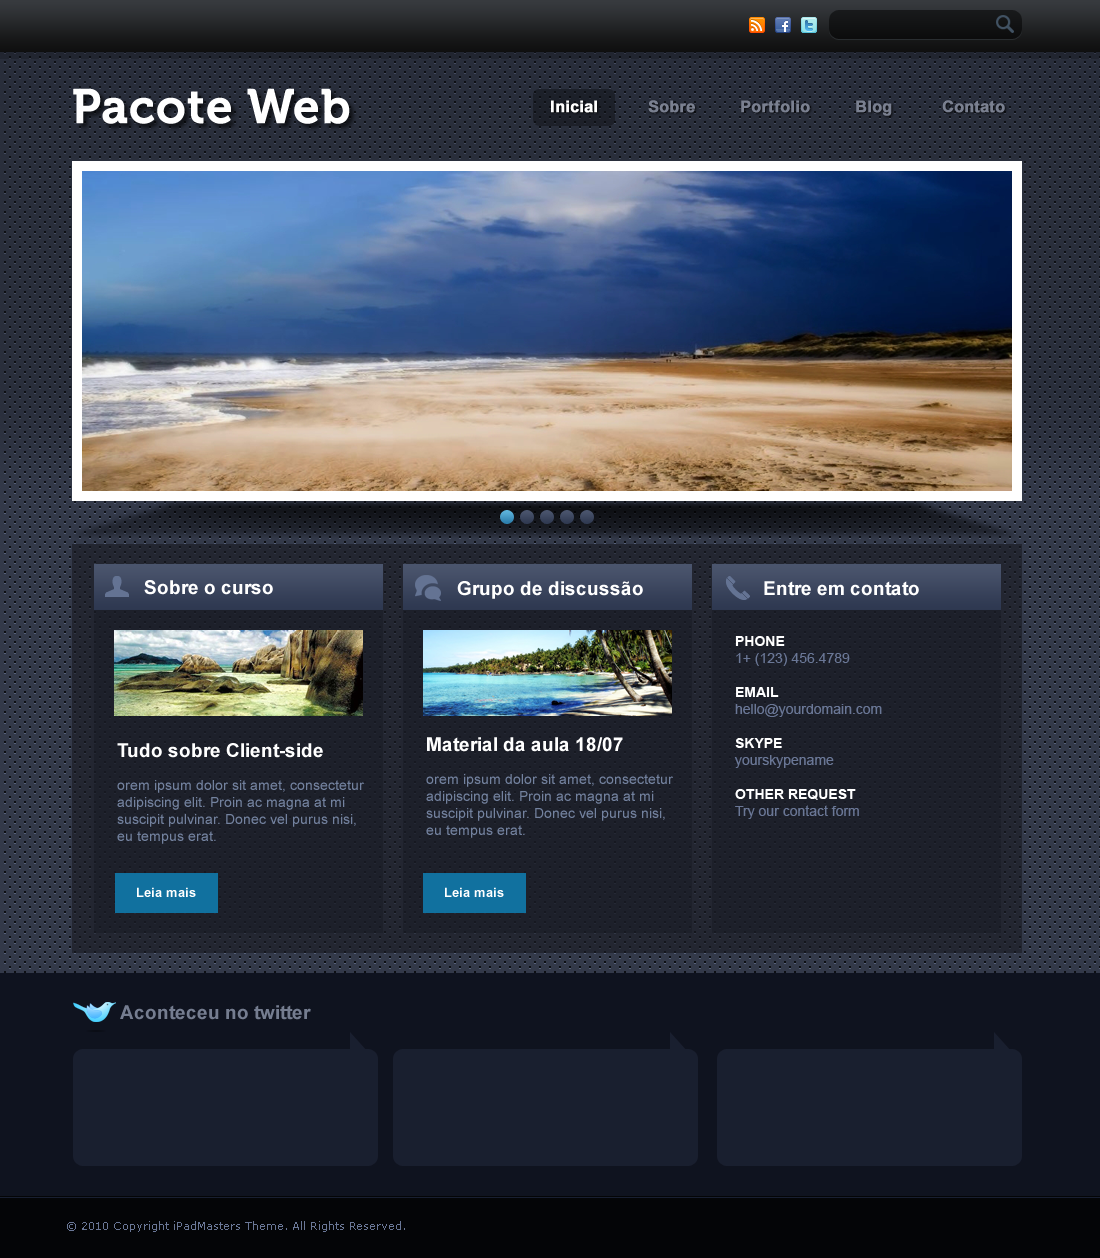
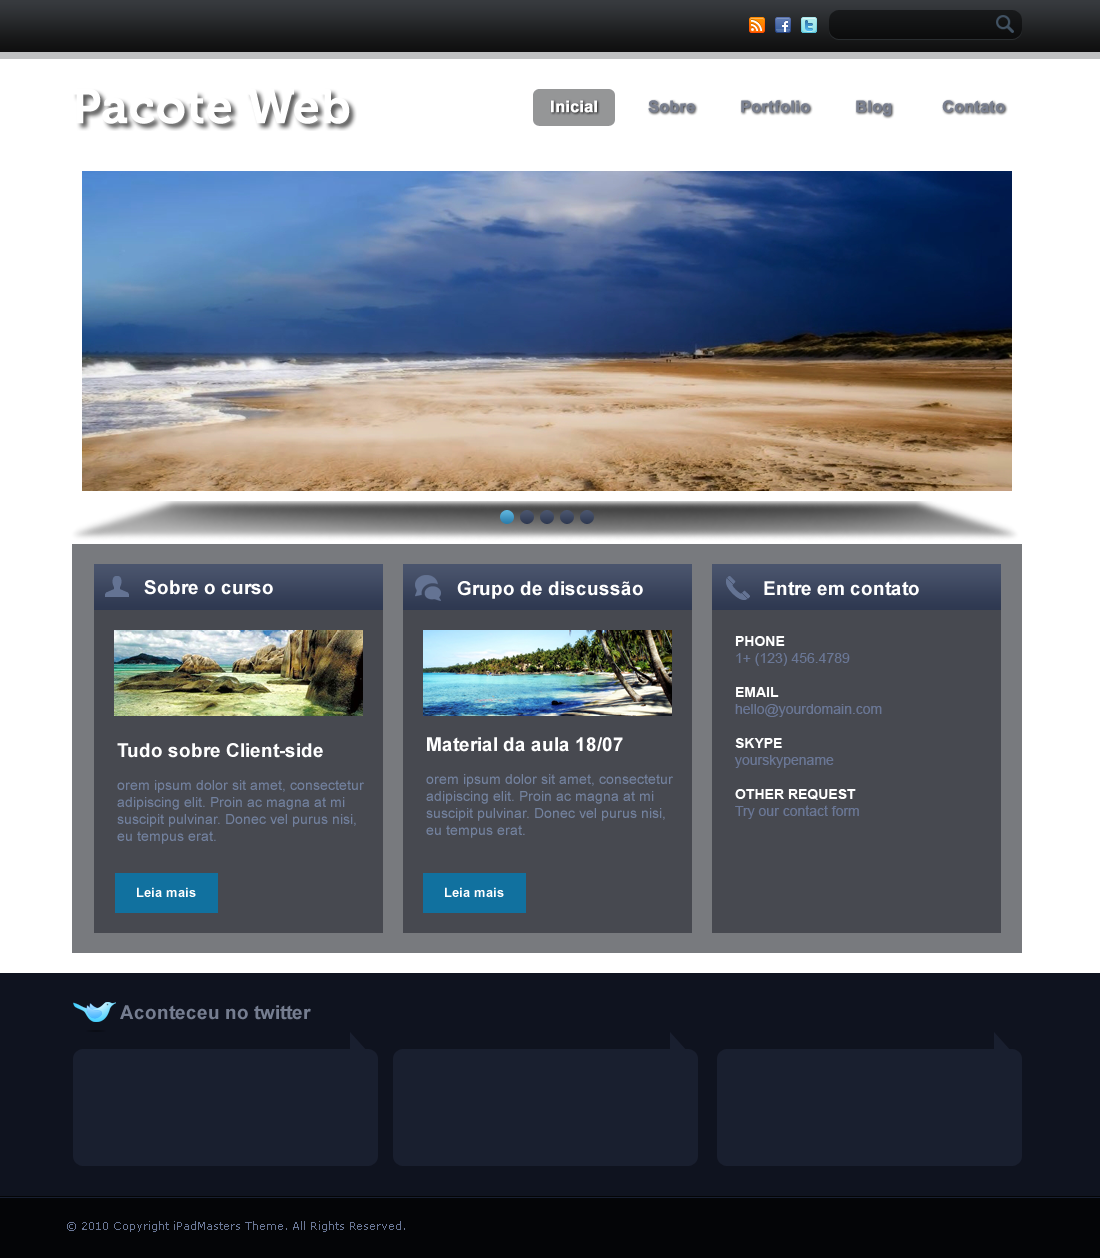
Resolução da segunda revisão

diff --git a/css/revisao/css/style.css b/css/revisao/css/style.css
@@ -14,3 +14,263 @@
 
 /* Começar aqui */
 
+body {
+  font-family: Arial, sans-serif;
+  font-size: 13px;
+  background: url("../images/bg-geral.png");
+  color: white;
+}
+
+a {
+  color: white;
+  text-decoration: none;
+}
+
+#barra {
+  background: url("../images/bg-barra-topo.png") repeat-x;
+  overflow: hidden;
+  height: 60px;
+}
+
+#barra-interna {
+  width: 950px;
+  margin: 0 auto;
+  overflow: hidden;
+}
+
+#redes-sociais {
+  margin-left: 600px;
+  margin-top: 15px;
+  margin-bottom: 20px;
+  overflow: hidden;
+  width: 100px;
+  float: left;
+}
+
+#redes-sociais li {
+  float: left;
+  margin-right: 10px;
+}
+
+#redes-sociais a {
+  display: block;
+  text-indent: -9999px;
+  overflow: hidden;
+  width: 16px;
+  height: 16px;
+}
+
+#redes-sociais .rss {
+  background: url("../images/bt-rss.png") no-repeat;
+}
+
+#redes-sociais .face {
+  background: url("../images/bt-facebook.png") no-repeat;
+}
+
+#redes-sociais .twitter {
+  background: url("../images/bt-twitter.png") no-repeat;
+}
+
+#buscar {
+  width: 193px;
+  margin-top: 10px;
+}
+
+#buscar input {
+  background: url("../images/bg-busca.png") no-repeat;
+  border: none;
+  color: white;
+  width: 160px;
+  padding: 7px 23px 10px 10px;
+}
+
+#buscar label {
+  display: none;
+  float: left;
+}
+
+#container {
+  margin: 0 auto;
+  width: 950px;
+}
+
+#cabecalho {
+  overflow: hidden;
+  padding-top: 40px;
+  padding-bottom: 40px;
+}
+
+#logotipo {
+  width: 300px;
+  float: left;
+}
+
+#logotipo a {
+  font-family: 'Tienne', serif;
+  font-size: 35px;
+
+  text-shadow: 1px 1px 2px #000000;
+  filter: dropshadow(color=#000000, offx=1, offy=1);
+}
+
+#nav {
+  width: 500px;
+  float: right;
+  overflow: hidden;
+}
+
+#nav li {
+  float: left;
+}
+
+#nav .atual {
+  background: url("../images/bg-transparente.png");
+  color: white;
+
+  -webkit-border-radius: 10px;
+  -moz-border-radius: 10px;
+  border-radius: 10px;
+}
+
+#nav a {
+  padding: 10px 20px;
+  display: block;
+  color: #797F90;
+
+  font-size: 16px;
+  font-weight: bold;
+
+  text-shadow: 1px 1px 2px #000000;
+  filter: dropshadow(color=#000000, offx=1, offy=1);
+}
+
+#banner {
+  background: url("../images/bg-banner.png") no-repeat;
+  height: 379px;
+  margin-bottom: 30px;
+}
+
+#chamadas {
+  background: url("../images/bg-transparente.png");
+  overflow: hidden;
+  padding: 20px;
+}
+
+#chamadas .chamada {
+  background: url("../images/bg-transparente.png");
+  width: 250px;
+  padding: 18px;
+  float: left;
+  margin-right: 15px;
+}
+
+#chamadas .titulo {
+  background: url("../images/bg-boxes.png") repeat-x;
+  padding: 14px;
+  font-size: 17px;
+  margin-left: -18px;
+  margin-top: -18px;
+  margin-bottom: 20px;
+  width: 258px;
+}
+
+#chamadas .titulo a {
+  background: url("../images/icone-pessoa.png") no-repeat;
+  display: block;
+  padding: 2px 0;
+  padding-left: 30px;
+}
+
+#chamadas .chamada h3 {
+  font-size: 16px;
+  margin: 15px 0;
+}
+
+#chamadas .chamada p {
+  line-height: 150%;
+  margin-bottom: 15px;
+  color: #72809F;
+}
+
+#chamadas .chamada .leia-mais {
+  padding: 10px 12px;
+  background: #11719F;
+  display: block;
+  width: 58px;
+}
+
+#chamadas .ultima {
+  margin-right: 0;
+  height: 308px;
+}
+
+#chamadas .ultima em {
+  color: white;
+  font-weight: bold;
+  font-style: normal;
+  display: block;
+  text-transform: uppercase;
+  margin-bottom: 5px;
+}
+
+#chamadas .ultima a,
+#chamadas .ultima address {
+  color: #72809F;
+}
+
+#chamadas .ultima .titulo a {
+  color: white;
+}
+
+#chamadas .ultima li {
+  margin-bottom: 15px;
+}
+
+#rodape {
+  margin-top: 20px;
+  background: #0F131F;
+  overflow: hidden;
+  padding-top: 20px;
+}
+
+#rodape-interno {
+  width: 950px;
+  margin: 0 auto;
+  overflow: hidden;
+}
+
+#rodape h2 {
+  color: #747D90;
+  font-size: 17px;
+  margin-bottom: 15px;
+  background: url("../images/icone-twitter.png") no-repeat;
+  padding: 3px 0;
+  padding-left: 50px;
+}
+
+#tweets li {
+  float: left;
+  margin-right: 5px;
+  width: 270px;
+  background: url("../images/bg-twitter.png") no-repeat;
+  padding: 40px 20px 0 20px;
+  height: 134px;
+}
+
+#tweets .ultimo {
+  margin-right: 0;
+}
+
+#copyright {
+  background: black;
+  border-top: 1px solid #181F31;
+  padding: 20px 0 ;
+}
+
+#copyright p {
+  color: white;
+  width: 950px;
+  margin: 0 auto;
+}
+

diff --git a/css/revisao/index.html b/css/revisao/index.html
@@ -2,11 +2,119 @@
 <html xmlns="http://www.w3.org/1999/xhtml" xml:lang="en">
 <head>
 <meta http-equiv="Content-Type" content="text/html;charset=UTF-8" />
-<title>Revisão do curso Pacote Web 2011.2</title>
+<title>Segunda revisão</title>
+<link href='http://fonts.googleapis.com/css?family=Tienne&v2' rel='stylesheet' type='text/css' />
 <link media="all" rel="stylesheet" href="css/reset.css" type="text/css" />
 <link media="all" rel="stylesheet" href="css/style.css" type="text/css" />
 </head>
 <body>
 
+<div id="barra">
+  <div id="barra-interna">
+    <ul id="redes-sociais">
+      <li><a href="#" class="rss">RSS</a></li>
+      <li><a href="#" class="face">Facebook</a></li>
+      <li><a href="#" class="twitter">Twitter</a></li>
+    </ul>
+
+    <form action="#" method="GET" id="buscar">
+      <fieldset>
+        <label for="campo-busca">Buscar</label>
+        <input type="text" name="busca" id="campo-busca" />
+      </fieldset>
+    </form>
+  </div>
+</div><!-- end #barra -->
+
+<div id="container">
+  <div id="cabecalho">
+    <h1 id="logotipo">
+      <a href="#">Pacote Web</a>
+    </h1>
+
+    <ul id="nav">
+      <li><a href="#" class="atual">Inicial</a></li>
+      <li><a href="#">Sobre</a></li>
+      <li><a href="#">Portfólio</a></li>
+      <li><a href="#">Blog</a></li>
+      <li><a href="#">Contato</a></li>
+    </ul>
+  </div><!-- end #cabecalho -->
+
+  <div id="banner">
+  </div>
+
+  <div id="chamadas">
+    <div class="chamada">
+      <h2 class="titulo"><a href= "#">Sobre o curso</a></h2>
+      <img src="images/imagem1.jpg" alt="praia" />
+      <h3>Tudo sobre client-side</h3>
+      <p>
+        Lorem ipsum dolor sit amet, consectetur adipiscing elit. Proin ac magna at mi suscipit pulvinar. Donec vel purus nisi, eu tempus erat.
+      </p>
+      <a href="#" class="leia-mais">Leia mais</a>
+    </div><!-- end .chamada -->
+
+    <div class="chamada">
+      <h2 class="titulo"><a href="#">Grupo de discussão</a></h2>
+
+      <img src="images/imagem2.jpg" alt="praia" />
+
+      <h3>Materinal da aula 18/07</h3>
+      <p>
+        Lorem ipsum dolor sit amet, consectetur adipiscing elit. Proin ac magna at mi suscipit pulvinar. Donec vel purus nisi, eu tempus erat.
+      </p>
+      <a href="#" class="leia-mais">Leia mais</a>
+    </div><!-- end .chamada -->
+
+    <div class="chamada ultima">
+      <h2 class="titulo"><a href="#">Entre em contato</a></h2>
+
+      <ul>
+        <li>
+          <em>Telefone</em>
+          <address>+55 81 9194 5000</address>
+        </li>
+        <li>
+          <em>E-mail</em>
+          <a href="mailto:curso-web-citi-2011-2@googlegroups.com">curso-web-citi-2011-2@googlegroups.com</a>
+        </li>
+        <li>
+          <em>Skype</em>
+          <a href="skype:guiocavalcanti">guiocavalcanti</a>
+        </li>
+      </ul>
+    </div>
+  </div><!-- end #chamadas -->
+</div><!-- end #container -->
+
+<div id="rodape">
+  <div id="rodape-interno">
+    <h2>
+      Aconteceu no Twitter:
+    </h2>
+
+    <ol id="tweets">
+      <li>
+        @guiocavalcanti Knowledge acquisition will no longer be confined to large lecture halls and assigned papers. http://is.gd/d7dm4F
+        25 Jun
+      </li>
+
+      <li>
+        @guiocavalcanti hacking with coffescript
+        16 Jun
+      </li>
+
+      <li class="ultimo">
+        @guiocavalcanti DOM is the bottleneck: If the JS engine were infinitely fast, most web apps would run about the same time. Douglas Crockford at #velocity
+        16 Jun
+      </li>
+    </ol>
+
+  </div>
+  <div id="copyright">
+    <p>Copyright 2011. Todos os direitos reservados.</p>
+  </div>
+</div><!-- end #rodape -->
 </body>
 </html>
